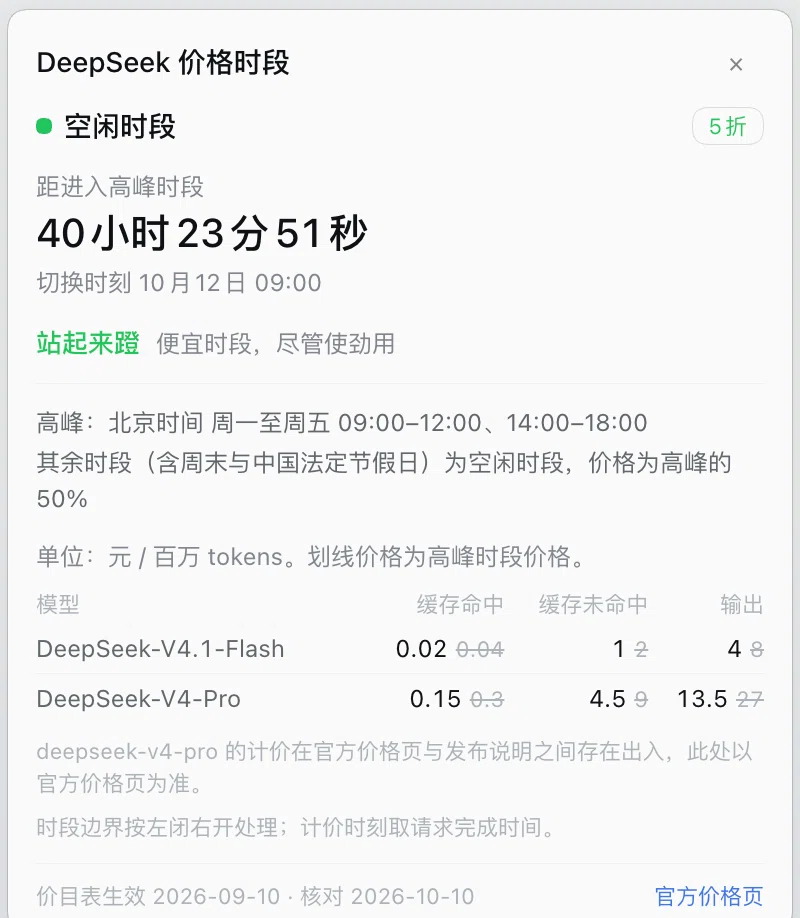
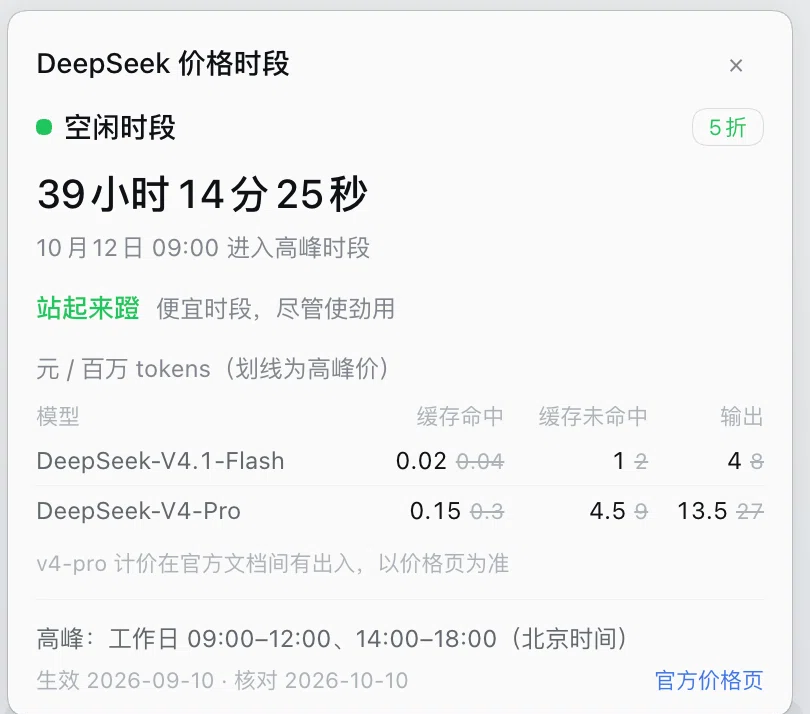
docs: 换上精简后的面板截图
- docs/screenshot-panel.png：新实拍 810×714（精简前 800×918，矮了约 22%），
  内容为 13 行：状态 → 剩余时间与切换时刻 → 口号 → 价目表 → 规则与来源
- README / verification.md：撤掉「摄于面板精简之前」的标注
- verification.md 实测表新增「面板层级」一行；数值行更新为本次截图的
  39 小时 14 分 25 秒（落盘 + 39:14:25 = 周一 09:00:22，约 20 秒为落盘延迟）

三张截图现在都与当前实现一致，文档中无过期标注。

diff --git a/docs/verification.md b/docs/verification.md
@@ -10,7 +10,8 @@
 | 渲染 | 标记与面板均按设计渲染（截图见下），客户端 bundle 经 HMR 生效，槽位注册成功 |
 | 侧栏口号 | 徽标同一行显示「空闲时段　站起来蹬　40:24」：状态主色、口号状态色、倒计时右对齐 |
 | 面板口号 | 面板里是「**站起来蹬**　便宜时段，尽管使劲用」：口号状态色加粗、解释弱化色小字 |
-| 数值 | 截图倒计时与 `src/policy.js` 的计算**吻合**：`40:24` = 周六 16:36 → 周一 09:00；面板 `40 小时 23 分 51 秒` 同理（差 11 秒 = 截图与落盘之间的延迟） |
+| 面板层级 | 精简后 13 行，顺序为 状态 → 剩余时间与切换时刻 → 口号 → 价目表 → 规则与来源；实现细节不在面板内 |
+| 数值 | 截图倒计时与 `src/policy.js` 的计算**吻合**：侧栏 `40:24` = 周六 16:36 → 周一 09:00；面板 `39 小时 14 分 25 秒` 同理（落盘比渲染晚约 20 秒） |
 | 界面语言 | 切换时刻显示为 `10 月 12 日 09:00`（中文日期 + 24 小时制）；修正前是 `10/12, 09:00 AM` |
 | 弹层背景 | 同参数对比度拉伸下：改动前能还原出背后的正文碎片，改动后只剩纯色背景 |
 | 测试 | `node --test test/` — 20 项全绿 |
@@ -40,10 +41,6 @@
 点击标记展开的面板：
 
 ![展开后的详情面板](screenshot-panel.png)
-
-<sub>该截图摄于面板精简之前（当时 18 行：另有「距进入高峰时段」标签、两行规则、单位说明、
-v4-pro 说明与边界说明）。现在精简为 12 行：状态 → 剩余时间 + 切换时刻 → 口号 → 价目表 → 规则与来源，
-实现细节移入 <a href="development.md">development.md</a> 的假设表。待新截图替换。</sub>
 
 ## 未验证
 
